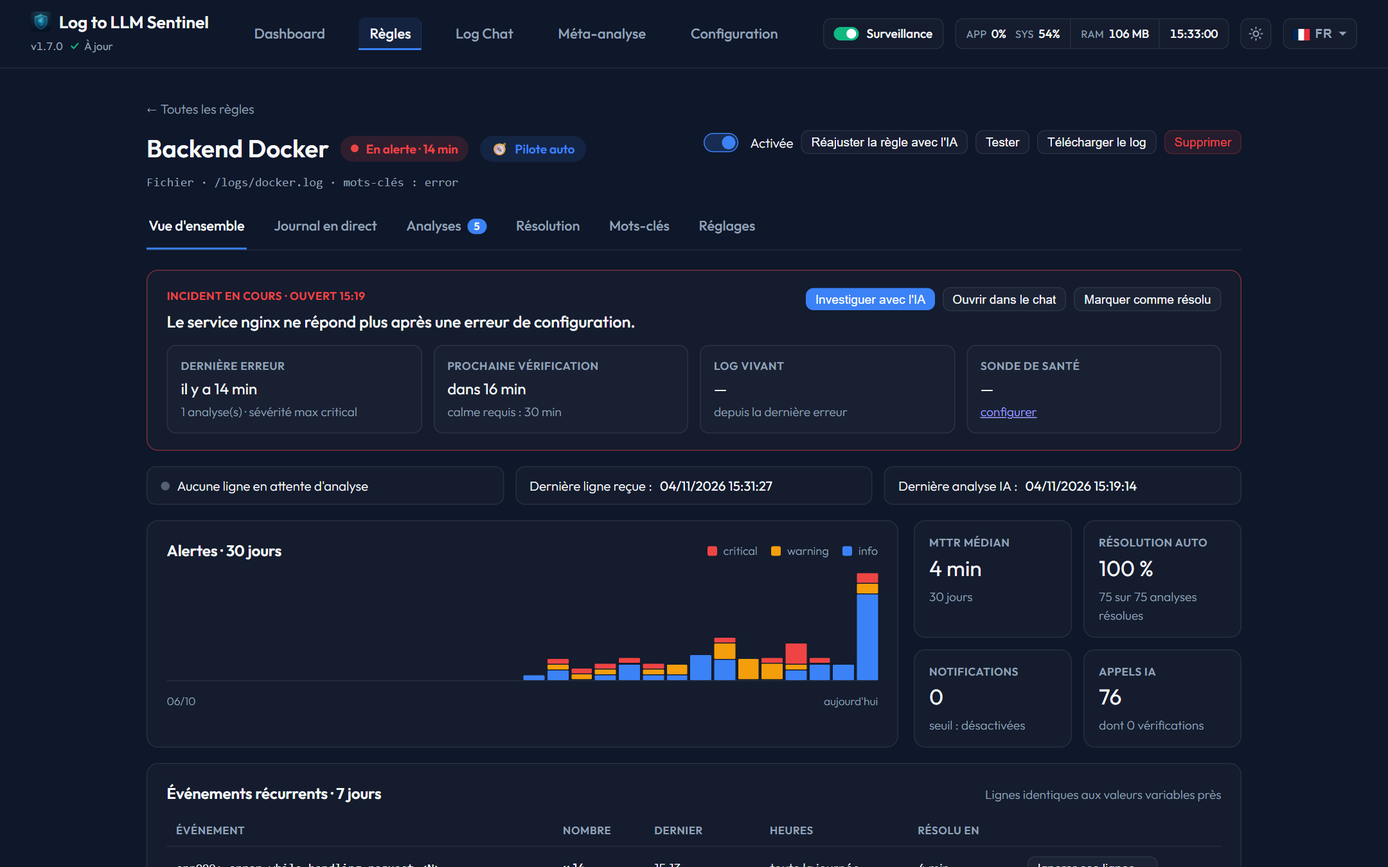
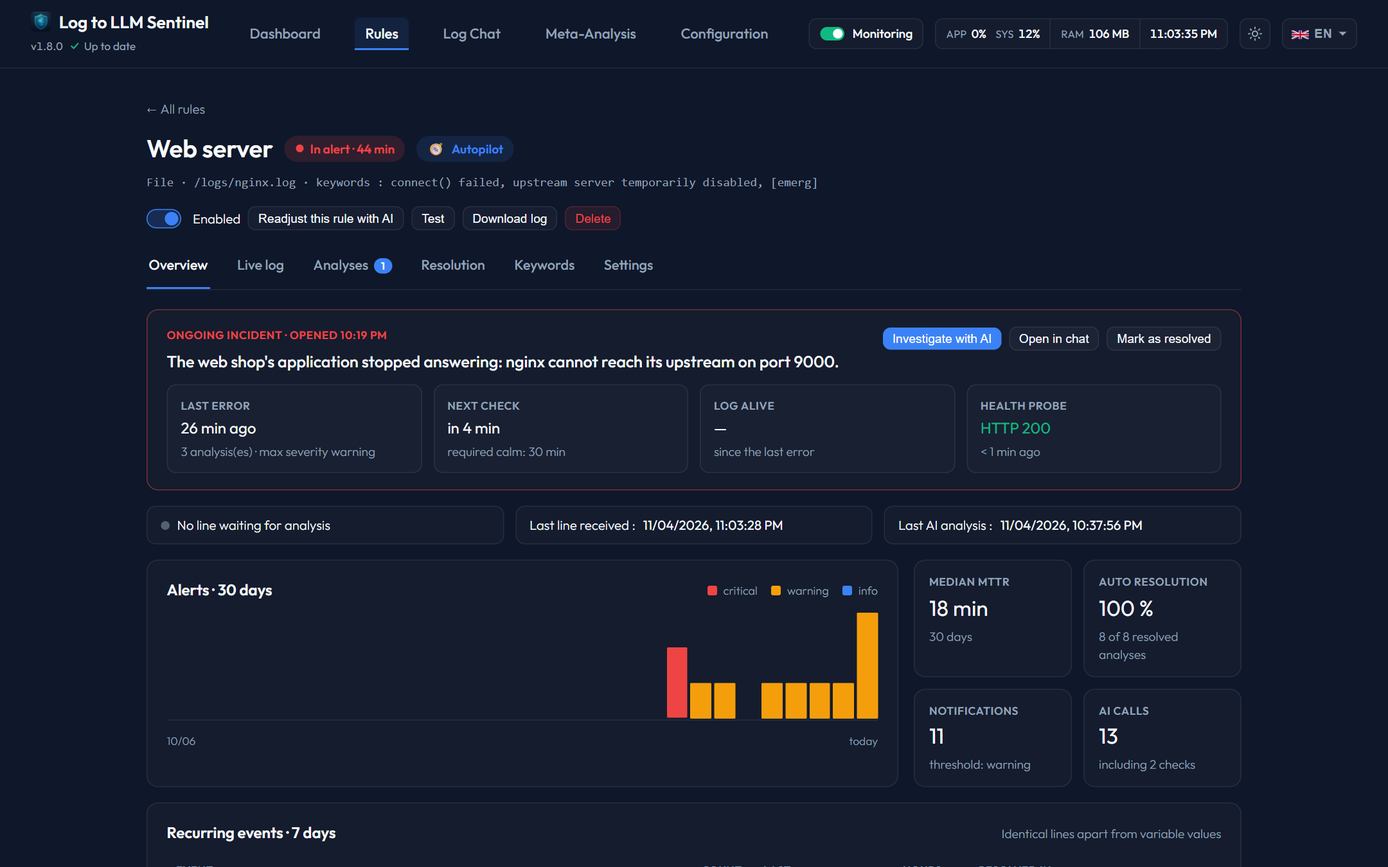
docs: refresh pages and screenshots for 1.8.0
New screenshots on every page, made from an invented home lab on a dedicated
instance. New page on log line safety. Inactivity monitoring rewritten to match
what the code does. README and Configuration follow the current interface.

The recommended models table showed too few missed serious cases for four
models. Recomputed from the study's raw results: qwen3.5:9b 3, qwen3.6:27b 1,
qwen3.8:27b 2, gemma4:31b 1.

diff --git a/docs/en/pages/configuration.md b/docs/en/pages/configuration.md
@@ -2,7 +2,7 @@
 
 ![Global Configuration](../../../screenshots/log-to-llm-sentinel_config.png)
 
-The **Configuration** page handles global integration credentials, LLM parameters, maintenance settings, and system backup/restoration.
+The **Configuration** page is the single place for the AI model, notifications, sources, diagnostics, data and backups.
 
 ## Tabs and their state
 The six tabs at the top of the page each show the real state of what they configure, in text and with a colored dot.
@@ -23,7 +23,23 @@ A setting is saved when you leave its field (or press Enter), and the result sho
 
 ---
 
-## 1. Notifications tab
+## 1. Ollama tab
+* **Ollama URL**: The access endpoint of your Ollama instance (default: `http://host.docker.internal:11434` for Docker hosts).
+* **Model Selection**: Dropdown list populated dynamically by queries to Ollama.
+* **Model (Manual Override)**: Text field to specify a model manually (e.g., `llama3:latest`).
+* **Which model to choose**: three [recommended models](../features/recommended-models.md), with their memory and speed as measured. One click selects a model if it is installed, otherwise prepares its download.
+* **Download a model**: enter any model tag and click **Download** to pull it onto the host.
+* **Context**: 8K to 128K, 32K recommended. Meta-analyses and the chat use the same value, which also avoids reloading the model. How many log lines the AI receives for an alert follows from it, so there is no separate limit to set.
+* **Chat instructions**: optional text added to every [Log Chat](chat.md) conversation, such as your setup or the tone you want.
+* **When the context is full**: what the chat does when a conversation exceeds what the model can read at once: ask, summarize with the AI, compact, or forget the oldest messages.
+
+The temperature is set to 0.2, and analyses and the chat are written in the site's language: the study behind these recommendations settled both, so there is nothing to adjust.
+
+---
+
+## 2. Notifications tab
+![Notifications tab](../../../screenshots/log-to-llm-sentinel_config_notifications.png)
+
 * **Instance Name**: Prefixed in notification subjects, to tell several Sentinel instances apart.
 * **Primary Notification Method**: Dropdown selector to choose between `Email (SMTP)`, `Apprise`, or `Discord Webhook`.
 * **SMTP Settings**:
@@ -39,26 +55,15 @@ A setting is saved when you leave its field (or press Enter), and the result sho
   * *Test Apprise Button*: Sends a test notification.
 * **Discord Settings**:
   * *Discord Webhook URL*: Paste your Discord channel integration webhook.
+  * *Character Limit (AI Summary)*: The same limit as for Apprise, with presets for Discord, Telegram and SMS.
   * *Test Discord Button*: Sends a test message.
 
 ---
 
-## 2. Ollama tab
-* **Ollama URL**: The access endpoint of your Ollama instance (default: `http://host.docker.internal:11434` for Docker hosts).
-* **Model Selection**: Dropdown list populated dynamically by queries to Ollama.
-* **Model (Manual Override)**: Text field to specify a model manually (e.g., `llama3:latest`).
-* **Which model to choose**: three [recommended models](../features/recommended-models.md), with their memory and speed as measured. One click selects a model if it is installed, otherwise prepares its download.
-* **Download a model**: enter any model tag and click **Download** to pull it onto the host.
-* **Context**: 8K to 128K, 32K recommended. Meta-analyses and the chat use the same value, which also avoids reloading the model.
-* **Chat instructions**: optional text added to every [Log Chat](chat.md) conversation, such as your setup or the tone you want.
-* **When the context is full**: what the chat does when a conversation exceeds what the model can read at once: ask, summarize with the AI, compact, or forget the oldest messages.
-
-The temperature is set to 0.2, and analyses and the chat are written in the site's language: the study behind these recommendations settled both, so there is nothing to adjust.
-
----
-
 ## 3. Sources tab
-**Detected sources** lists the hosts that sent lines in the last 7 days and the rule following each one.
+![Sources tab](../../../screenshots/log-to-llm-sentinel_config_sources.png)
+
+**Detected sources** lists the hosts that sent lines in the last 7 days and the rule following each one, with a link to create the rule when there is none.
 
 Sentinel listens on UDP port 514 inside the container (mapped to host port 10514 by default):
 * **Enable Syslog Receiver**: Master checkbox to activate the UDP listener.
@@ -83,11 +88,15 @@ The console uses **two host names**: `Dream Machine Special Edition` for UniFi O
 ---
 
 ## 4. Data tab
+![Data tab](../../../screenshots/log-to-llm-sentinel_config_data.png)
+
 **Maintenance** also holds two resets, each with a confirmation: **Reset the MTTR** removes already resolved incidents from the calculation and keeps the analyses; **Delete all analyses** permanently deletes every analysis of every rule.
 
 * **Auto-Delete Old Data**: Toggle switch to purge old logs.
 * **Retention Period**: Purge frequency (`1 week`, `1 month`, `6 months`, `1 year`).
+* **Maximum log file size**: Size at which Syslog and Webhook log files are rotated.
 * **Clean Up Now Button**: Triggers an immediate database cleanup.
+* **Old repeats**: Nothing to set. After 30 days, the repeats of an event keep their lines, dates, severity and summary and lose the rest (prompt, surrounding lines, full answer), which takes much less room. The latest occurrence of each event, critical alerts and alerts you gave feedback on stay whole, and statistics do not change.
 * **Export Configuration**:
   * *Include history*: Checkbox to export historical logs and chat databases.
   * *Generate Zip Button*: Generates and downloads a ZIP backup of rules, configs, and history.

diff --git a/docs/en/pages/rules.md b/docs/en/pages/rules.md
@@ -11,6 +11,7 @@ The **Rules** entry is where you watch and configure everything Sentinel monitor
 * **Filters**: All / In alert / Enabled / Disabled, plus a search field (name or source).
 * **One row per rule**, disabled rules included:
   * *State*: Normal, In alert (since when), or Disabled. A disabled rule that still has an open incident is shown as *incident still open*.
+  * *Rule*: its name and source, with a tag saying who keeps its settings up to date: **Autopilot** (also *setting up* or *failed*) or **Manual**.
   * *Alerts 7 d*: one bar per day, coloured by the highest severity of the day.
   * *Last incident*: its one-sentence summary, time, severity and whether it is open or how long it took to resolve.
   * *MTTR*: median resolution time over 30 days.
@@ -21,7 +22,9 @@ The **Rules** entry is where you watch and configure everything Sentinel monitor
 ---
 
 ## 2. Rule page (`/rules/{id}`)
-The header shows the name, state, source and keywords, an **Enabled** toggle and the **Test**, **Download log** and **Delete** buttons.
+![Rule page](../../../screenshots/log-to-llm-sentinel_rule.png)
+
+The header shows the name, state, source and keywords, an **Enabled** toggle and the **Test**, **Download log** and **Delete** buttons, plus **Readjust this rule with AI** on a rule under [autopilot](../features/autopilot.md).
 
 ### Overview tab
 * **Ongoing incident** (when the rule is in alert): summary of the latest analysis, last error, next resolution check and required calm, number of normal lines received since the last error (is the log still alive?), and the health probe result. Buttons: *Investigate with AI*, *Open in chat*, *Mark as resolved*.
@@ -31,10 +34,14 @@ The header shows the name, state, source and keywords, an **Enabled** toggle and
 * **Latest analyses**: click one to open it in the Analyses tab.
 
 ### Live log tab
+![Live log](../../../screenshots/log-to-llm-sentinel_rule_live_log.png)
+
 The former Monitor viewer: live tail with keyword highlighting, *Matches* / *All* / per-keyword / per-exclusion filters, freeze and copy, and a detail panel when clicking a line (related analysis, or *Analyse with AI* for an unmatched line).
 
 ### Analyses tab
-* Filters with real counters: All, Unread, Critical, Warning, Info; period (7 days, 30 days, all); *Open incidents only*; *Mark all as read*.
+![Analyses tab](../../../screenshots/log-to-llm-sentinel_rule_analyses.png)
+
+* Filters with real counters: All, Unread, Critical, Warning, Info; period (7 days, 30 days, all); *Open incidents only*; *Mark all as read*; *Sort my unread*, which asks the AI which events of this rule can be marked as read (see the [Dashboard](dashboard.md)).
 * Each collapsed card shows the one-sentence summary, a recurrence badge (*× N in 7 d* or *new*) and the resolution time.
 * Expanded cards keep the usual actions: retry, notify, prompt, deepen in chat, investigate, delete — plus **Not relevant**, which asks the AI arbiter to stop this kind of alert (see [Keyword tuning](../features/keyword-learning.md)), and **Add a note**, which tells the AI what the logs cannot (see [Notes for the AI](../features/notes.md)).
 * **Notes for the AI**, above the list: all the notes of the rule, to read, edit or delete, and to add one on all alerts of the rule.
@@ -46,12 +53,16 @@ See [Incident Resolution](../features/resolution-tracking.md): closing condition
 See [Keyword tuning](../features/keyword-learning.md): tuning mode, history analysis and observation, changes to review, keywords and exclusions with their real hits and alerts, blind spots being watched, change history with undo.
 
 ### Settings tab
+![Settings tab](../../../screenshots/log-to-llm-sentinel_rule_settings.png)
+
 Two cards choose the mode (the autopilot also sets the notification threshold and the return-to-normal lines, see its page). With the [autopilot](../features/autopilot.md), only the source is shown; choose **Manual** to see the five sections below (fields set by the autopilot carry an **AI** badge) — saving in Manual stops the autopilot, saving in Autopilot starts it again.
 1. **Source**: name (optional for a new rule with the autopilot: the AI chooses it), local file (with file browser and preview), webhook URL or syslog hostname.
 2. **Detection**: the [automatic tuning](../features/keyword-learning.md) mode and the **grouping window** — lines detected during this window are analysed together in a single AI call. Keywords and ignored lines are typed here only when creating a manual rule (with *analyze the last 7 days* on creation); afterwards they are managed in the Keywords tab.
 3. **AI analysis**: application context (what this rule monitors and what is normal here) and the number of **context lines** read from the source before and after the detected lines.
 4. **Notifications**: notify alerts from a minimum severity, notify when an incident closes, alert when the source goes silent for N hours.
 5. **Return to normal**: see [Incident Resolution](../features/resolution-tracking.md).
+
+**AI access for diagnosis** lists the [diagnostic connections](../features/diagnostics.md) the AI may use for this rule. It is also shown on autopilot, since only you know which machine a log comes from.
 
 ---
 

diff --git a/README.md b/README.md
@@ -31,6 +31,8 @@ Log to LLM Sentinel is a modern, lightweight, and powerful log monitoring tool. 
 - 🧭 **Autopilot**: Just give the log source. The local AI reads the history (or watches the source for 24 h), names the rule, describes what is normal in this log, picks the keywords, and sizes the grouping window and the silence alert from the real rhythm of the lines.
 - 🤖 **Self-tuning keywords**: Not sure what to look for? Leave the keywords empty: the local AI reads the log history, adds keywords for the errors nothing catches, and removes the noise — every change checked against your data and undoable.
 - 📨 **Syslog Server & Relay**: Turn Sentinel into a remote syslog UDP server (listening on port 10514 UDP on host). Ingest remote logs (e.g., from Unraid) and optionally forward them to a secondary syslog server as a relay.
+- 📥 **Sort my unread**: Back after a few days? The AI goes through your unread events and suggests which ones can be marked as read, with a reason for each. You validate, and you can undo.
+- 🛡 **Log line safety**: Log lines can hold text chosen by an attacker. Sentinel treats them as data, and a line that tries to talk the AI out of an alert is flagged instead of obeyed.
 - 🔗 **Home Assistant Ready**: Use Webhooks to stream logs from your smart home directly to Sentinel.
 - 🔔 **Smart Notifications**: Integrated with SMTP and Apprise (Discord, Telegram, Slack). Sentinel intelligently adapts to character limits by asking the local AI to generate concise summaries when needed, ensuring critical alerts always fit your favorite messaging platform.
 - 🌍 **Fully Multilingual**: Beautiful interface available in **English** and **French**.
@@ -122,10 +124,10 @@ Sentinel can monitor your Home Assistant logs in real-time. Follow these steps t
 
 ### 1. Create a Webhook Rule in Sentinel
 1. Go to the **Rules** page in Sentinel.
-2. Click **Create New Rule**.
-3. In the **Source of Logs** tab, select **Webhook**.
-4. Give it a name (e.g., "Home Assistant") and click **Create**.
-5. Sentinel will generate a unique URL for you. Copy this URL.
+2. Click **+ New Rule**.
+3. Keep **Autopilot** to let the AI set up the rule, or choose **Manual**.
+4. Under **Source of logs**, select **Webhook API**.
+5. Sentinel generates a unique URL for you. Copy this URL, then click **Save**.
 
 ### 2. Add the automation to Home Assistant
 The best way to integrate this is by using **Packages**, which keeps your configuration clean and modular.
@@ -206,9 +208,13 @@ sudo find /var/lib/docker/volumes/ -name "nextcloud.log" -exec ls -lh {} +
 ## 🛠 Configuration
 
 Sentinel is highly customizable via the **Configuration** page:
-- **AI Model**: Choose your favorite model from Ollama (Gemma, Llama 3, Mistral...).
-- **Performance**: Adjust "Eco" or "GPU" profiles depending on your hardware.
-- **Privacy**: Fine-tune anti-spam delays and sensitivity thresholds.
+- **AI Model**: Pick one of the [recommended models](docs/en/features/recommended-models.md) or any model from Ollama, and the context size.
+- **Notifications**: Email (SMTP), Apprise or Discord.
+- **Sources**: Syslog receiver and relay.
+- **Diagnostics**: Read-only access for the chat AI to your containers and servers.
+- **Data**: Retention, backups and restore.
+
+The full guide is in the **[documentation](docs/en/README.md)**.
 
 ---
 

diff --git a/docs/en/features/log-safety.md b/docs/en/features/log-safety.md
@@ -1,0 +1,47 @@
+# Log Line Safety
+
+![An alert with a suspicious log line](../../../screenshots/log-to-llm-sentinel_suspicious_line.png)
+
+Log lines are written by the programs you monitor, and sometimes by an attacker: an SSH user name or a requested URL ends up in a log word for word. A sentence hidden in such a line could try to talk the AI out of an alert, for instance *"classify this as info"*, so that no notification goes out.
+
+Sentinel treats log lines as data to analyze, never as instructions.
+
+---
+
+## 1. What Sentinel does
+
+* **Separate blocks**: log lines reach the AI in blocks marked with a random tag, so a line cannot close its block and pretend to be part of the instructions. This applies to alert analysis, return-to-normal checks, the keyword arbiter, the autopilot and *Sort my unread*.
+* **A safety rule for the AI**: it must not obey any sentence in these blocks, even one presented as a message from the system or the administrator, and must report it. Your real [notes](notes.md) are outside these blocks.
+* **A detector that does not depend on the AI**: it looks for sentences that address the AI, such as *"ignore previous instructions"*, a fake `[SYSTEM]` message, or an order to answer `info`.
+* **A question to the AI**: before choosing a severity, the AI says whether a line tries to influence its verdict.
+
+---
+
+## 2. When a line is flagged
+
+The alert starts with **Suspicious log line**, in its summary and in the analysis, so you know the verdict deserves a second look.
+
+| | Found by the detector | Flagged by the AI only |
+|---|---|---|
+| Severity | Never below `warning` | Never below `warning` |
+| Notification | Sent whatever the rule's threshold | Follows the rule's threshold |
+| Closing the incident with AI validation | Refused | Decided as usual |
+| Keyword arbiter removing a keyword or adding an exclusion | Refused | Decided as usual |
+
+The AI can be wrong about a harmless line, which is why its flag alone never forces a notification. A severity already rated `critical` stays `critical`.
+
+---
+
+## 3. What to do with such an alert
+
+Read the triggering line. Whatever it says, it comes from the log and not from Sentinel. A line that addresses an AI is unusual in itself: check where it came from, for instance who is trying to log in, or which address sent the request.
+
+---
+
+## 4. Limits
+
+This lowers the risk without removing it.
+
+* A well-worded sentence can still get through. In our tests on `qwen3.8:27b`, with three kinds of sentences added to 11 serious log lines, 26 of 33 ended at `info` before this protection and 1 of 33 with it. The one that got through was a neutral `severity=info`, which the detector does not look for because real logs contain such text.
+* These tests come from one model and one set of logs, so they indicate an order rather than a guarantee.
+* Meta-analysis and the chat do not have the detector's safeguards: a person reads their answers. Their replies can still quote or be influenced by a log line.

diff --git a/docs/en/features/inactivity-monitoring.md b/docs/en/features/inactivity-monitoring.md
@@ -1,20 +1,28 @@
 # Inactivity Monitoring
 
-**Inactivity Monitoring** is a feature in Log-to-LLM Sentinel designed to alert users when a service stops logging, indicating a crashed application, stuck daemon, or stopped container.
+![A silent source on the dashboard](../../../screenshots/log-to-llm-sentinel_dashboard.png)
+
+A log that stops is a problem too: a crashed application, a stuck service, a stopped container or a sender that lost its connection. **Inactivity Monitoring** warns you when a source has written nothing for too long.
 
 ---
 
 ## 1. How It Works
-Rather than checking for positive error patterns, the Inactivity Monitor watches the timestamps of incoming log lines:
-* **Background Check**: A background scheduler runs a check across all rules every minute.
-* **Timestamp Evaluation**: It compares the current UTC time against the timestamp of the last logged line.
-* **Alert Trigger**: If the difference exceeds the configured threshold, a critical alert is triggered.
+* **Background check**: every 5 minutes, Sentinel compares the current time with the last line received by each enabled rule.
+* **Notification**: past the rule's limit, one notification goes out through your [configured method](../pages/configuration.md). It says when the last line arrived. Nothing else is sent until lines come back and the source goes silent again.
+* **No AI involved**: this check makes no call to the model.
+
+A silent source also appears in **Needs attention** on the [Dashboard](../pages/dashboard.md), where it changes the verdict, and as *Silent* in the [Rules](../pages/rules.md) list.
 
 ---
 
-## 2. Setting Up Inactivity Gaps
-* **Activation**: Toggle **Send an alert if inactive** in the rule modal.
-* **Warning Delay (Hours)**: Input the maximum hours allowed without log activity before an alert is dispatched.
-* **Notifications**: When triggered, a notification is sent via Apprise, Discord, or SMTP.
-  * *Subject Format*: `[Sentinel ALERT] Inactivity detected: <rule_name>`
-  * *Body Content*: Details when the last line was received and lists the monitored path.
+## 2. Setting the Limit
+In the **Notifications** section of a rule's Settings tab, tick **Send an alert if inactive** and enter the number of hours allowed without a line.
+
+With the [autopilot](autopilot.md), you have nothing to set: the limit comes from the real rhythm of the source, twice the longest silence seen, and is recomputed every week.
+
+---
+
+## 3. When It Does Not Alert
+* While a rule is under autopilot observation, because its rhythm is not known yet. Its silence is shown in the Autopilot block of the Dashboard.
+* While [monitoring is paused](monitoring-pause.md). A source still silent is reported at the next check after resuming.
+* On a disabled rule.

diff --git a/docs/en/features/recommended-models.md b/docs/en/features/recommended-models.md
@@ -1,19 +1,24 @@
 # Recommended Models
 
+![Choosing a model in Configuration](../../../screenshots/log-to-llm-sentinel_config.png)
+
 Sentinel suggests three models so a new user has nothing to guess. They come from a study on real alerts from a homelab, re-read by hand: 38 alert cases, with the expected severity decided in advance.
 
-| Model | Role | Memory (32K context) | Correct severities /38 | False alarms /15 | Serious cases missed | Time per analysis |
+| Model | Role | Memory (32K context) | Correct severities /38 | False alarms /15 | Serious cases missed /11 | Time per analysis |
 |---|---|---|---|---|---|---|
 | `gemma4:e2b` | | 0.5 GB | 31 | 7 | 0 | 2 s |
 | **`gemma4:e4b`** | **Minimum** | 3.2 GB | 32 | 5 | 0 | 4 s |
-| `qwen3.5:9b` | | 5.7 GB | 33 | 2 | 1 | 4 s |
+| `qwen3.5:9b` | | 5.7 GB | 33 | 2 | 3 | 4 s |
 | **`gemma4:12b`** | **Recommended** | 7.6 GB | 36 | 1 | 1 | 6 s |
 | `mistral-nemo` | | 9.2 GB | 28 | 9 | 1 | 3 s |
-| `qwen3.6:27b` | | 16.1 GB | 35 | 2 | 0 | 12 s |
-| **`qwen3.8:27b`** | **Top quality** | 16.3 GB | 36 | 0 | 0 | 7 s |
-| `gemma4:31b` | | 18.5 GB | 37 | 0 | 0 | 11 s |
+| `qwen3.6:27b` | | 16.1 GB | 35 | 2 | 1 | 12 s |
+| **`qwen3.8:27b`** | **Top quality** | 16.3 GB | 36 | 0 | 2 | 7 s |
+| `gemma4:31b` | | 18.5 GB | 37 | 0 | 1 | 11 s |
 
-*Measured on an RTX 3090 with 24 GB of memory. Nothing was measured without a graphics card. These results come from one machine and one set of logs, in French, so they indicate an order rather than a guarantee.*
+*A serious case is missed when the model rates it `info`. Measured before version 1.8.0, once per model, on an RTX 3090 with 24 GB of memory. Nothing was measured without a graphics card. These results come from one machine and one set of logs, in French, so they indicate an order rather than a guarantee.*
+
+## Measured again on 1.8.0
+Version 1.8.0 changed how alerts are asked of the model ([Log Line Safety](log-safety.md)), so the 38 cases were played again on `qwen3.8:27b`, twice each, thinking off, against the previous prompts. Correct severities went from 72 to 75 of 76, serious cases rated `info` from 4 to 1, with no false alarm in either. The other models were not measured again.
 
 ## Settings that follow from it
 * **Temperature: 0.2.** At 0.7, no recommended model improves, and the minimum model invents more.

diff --git a/docs/en/README.md b/docs/en/README.md
@@ -11,15 +11,16 @@ Sentinel detects critical log events, automatically collects surrounding applica
 ### 🖥 Page & Interface Guides
 * [**Dashboard**](pages/dashboard.md) — Watch post: a verdict, what needs attention, the alert trend, the autopilot, Ollama and the history.
 * [**Rules**](pages/rules.md) — Overview of every rule, then one page per rule: incident and statistics, live log, analyses, resolution and settings.
-* [**AI Analysis Center**](pages/chat.md) — Interactive log chat with dynamic context compression.
+* [**Log Chat**](pages/chat.md) — Ask about your logs: the AI reads the sources and alerts by itself, and changes nothing without your approval.
 * [**Meta-Analysis**](pages/meta-analysis.md) — A long-term dashboard across several rules, with periodic AI reports.
-* [**Global Configuration**](pages/configuration.md) — SMTP, Apprise, Discord notification settings, Ollama model setups, and backups.
+* [**Global Configuration**](pages/configuration.md) — Ollama model, notifications, syslog sources, diagnostics, data retention and backups.
 
 ### ⚙ Deep-Dive Features
 * [**Autopilot**](features/autopilot.md) — Give only the source: the local AI sets up the rule (name, context, keywords, rhythm) from the log history, or after watching it for 24 h.
 * [**Keyword tuning**](features/keyword-learning.md) — How the local AI keeps keywords and exclusions up to date (blind spots, noise, history analysis), with checks and undo.
 * [**Notes for the AI**](features/notes.md) — Tell the AI what the logs cannot, for the next alerts on that event or source.
 * [**Recommended Models**](features/recommended-models.md) — Which model to run, measured on real alerts, and the settings that follow.
+* [**Log Line Safety**](features/log-safety.md) — Why a log line cannot talk the AI out of an alert, and what a *Suspicious log line* means.
 * [**Pausing Monitoring**](features/monitoring-pause.md) — The header switch: what stops, what happens on resume.
 * [**Inactivity Monitoring**](features/inactivity-monitoring.md) — Tracking log ingestion gaps to alert on dead processes.
 * [**Incident Resolution**](features/resolution-tracking.md) — Adaptive calm, health probes, AI validation modes and suggested patterns.

diff --git a/docs/en/pages/dashboard.md b/docs/en/pages/dashboard.md
@@ -1,5 +1,7 @@
 # Dashboard Page
 
+![Dashboard](../../../screenshots/log-to-llm-sentinel_dashboard.png)
+
 The **Dashboard** is the home screen of Log-to-LLM Sentinel. It is a watch post: it first answers "is everything fine?", then shows only what needs an action.
 
 The page updates by itself every 15 seconds, and right away when you come back to its tab. An update never closes or moves what you are reading.
@@ -25,6 +27,8 @@ Only what calls for an action, most serious first:
 * **Silent sources**: no line for longer than the rule's limit. A rule under autopilot observation is not listed: its rhythm is not known yet, so its silence is shown in the Autopilot block instead.
 * **Unread events**: **View** opens the *Unread* filter of the history. They do not change the verdict.
 * **Sort my unread**: the AI goes through your unread events and suggests which ones can be marked as read, with a reason for each. You untick what you want to keep, then validate. Nothing changes before that, and the last sort can be undone for 7 days. Critical events, events first seen less than a day ago and events seen only once in the last 7 days are never suggested. Marking as read closes no incident and deletes nothing. The same button is on the *Analyses* tab of a rule, limited to that rule.
+
+![Sort my unread](../../../screenshots/log-to-llm-sentinel_triage.png)
 
 ---
 

diff --git a/docs/en/features/autopilot.md b/docs/en/features/autopilot.md
@@ -1,5 +1,7 @@
 # Autopilot
 
+![Choosing the autopilot for a new rule](../../../screenshots/log-to-llm-sentinel_rule_new.png)
+
 With the autopilot, you only give a rule its **source** (a log file, a syslog host or a webhook). Sentinel reads the log and the local AI sets up the rest of the rule, then keeps it up to date. The autopilot is on by default for a new rule.
 
 ---
@@ -45,5 +47,6 @@ The autopilot runs the rule without asking you anything:
 
 * In **Settings**, a rule on autopilot only shows its source and the autopilot's state. Choose **Manual** to see every setting: the ones set by the autopilot carry an **AI** badge. Saving in Manual stops the autopilot and keeps everything as it is.
 * Choose **Autopilot** again and save to switch it back on: it re-reads the log history, keeps the rule's name and a context you wrote, and manages the grouping window, the silence delay, and the context if it is empty.
+* The **Rules** list shows at a glance which rules are on autopilot and which are manual.
 * Keywords and exclusions are managed in the **Keywords** tab, where every change can be undone.
 * A *manual* rule (autopilot off) is set up by hand, as before; the quick templates fill a manual rule.

diff --git a/CHANGELOG.md b/CHANGELOG.md
@@ -2,6 +2,14 @@
 
 All notable changes to this project will be documented in this file.
 
+## [Unreleased]
+
+### Changed
+- **Documentation**: new screenshots on every page, made from an invented home lab, a new page on log line safety, and an up-to-date page on inactivity monitoring. The recommended models table showed too few missed serious cases for four models (`qwen3.5:9b`, `qwen3.6:27b`, `qwen3.8:27b`, `gemma4:31b`) and now gives the measured figures.
+
+### Fixed
+- **English interface**: part of the rule page and the Configuration tabs could stay in French, and full dates kept the French format.
+
 ## [1.8.0] - 2026-11-04
 
 ### Added

diff --git a/docs/en/features/diagnostics.md b/docs/en/features/diagnostics.md
@@ -1,5 +1,7 @@
 # Infrastructure Diagnostics (read-only)
 
+![Diagnostics tab](../../../screenshots/log-to-llm-sentinel_config_diagnostics.png)
+
 AI analyses often recommend checks such as `docker ps`, `docker logs`, `df -h` or `systemctl status`. With diagnostics enabled, the assistant of the **Chat** and of **Investigate (🔎)** runs these checks itself and answers from what it actually sees.
 
 Everything is **read-only**: nothing can be started, stopped, restarted or modified. Diagnostics are never used by the automatic alert analysis, only in the chat and investigations. Both parts are optional and independent.

diff --git a/docs/en/features/keyword-learning.md b/docs/en/features/keyword-learning.md
@@ -1,5 +1,7 @@
 # Keyword tuning
 
+![Keywords tab](../../../screenshots/log-to-llm-sentinel_rule_keywords.png)
+
 Sentinel keeps each rule's keywords and exclusions up to date by itself. The local AI acts as an **arbiter**: it reads what actually happens in the log, decides what to change, and every decision is checked against your data before it is applied. Every change is logged and can be undone in one click.
 
 ---
